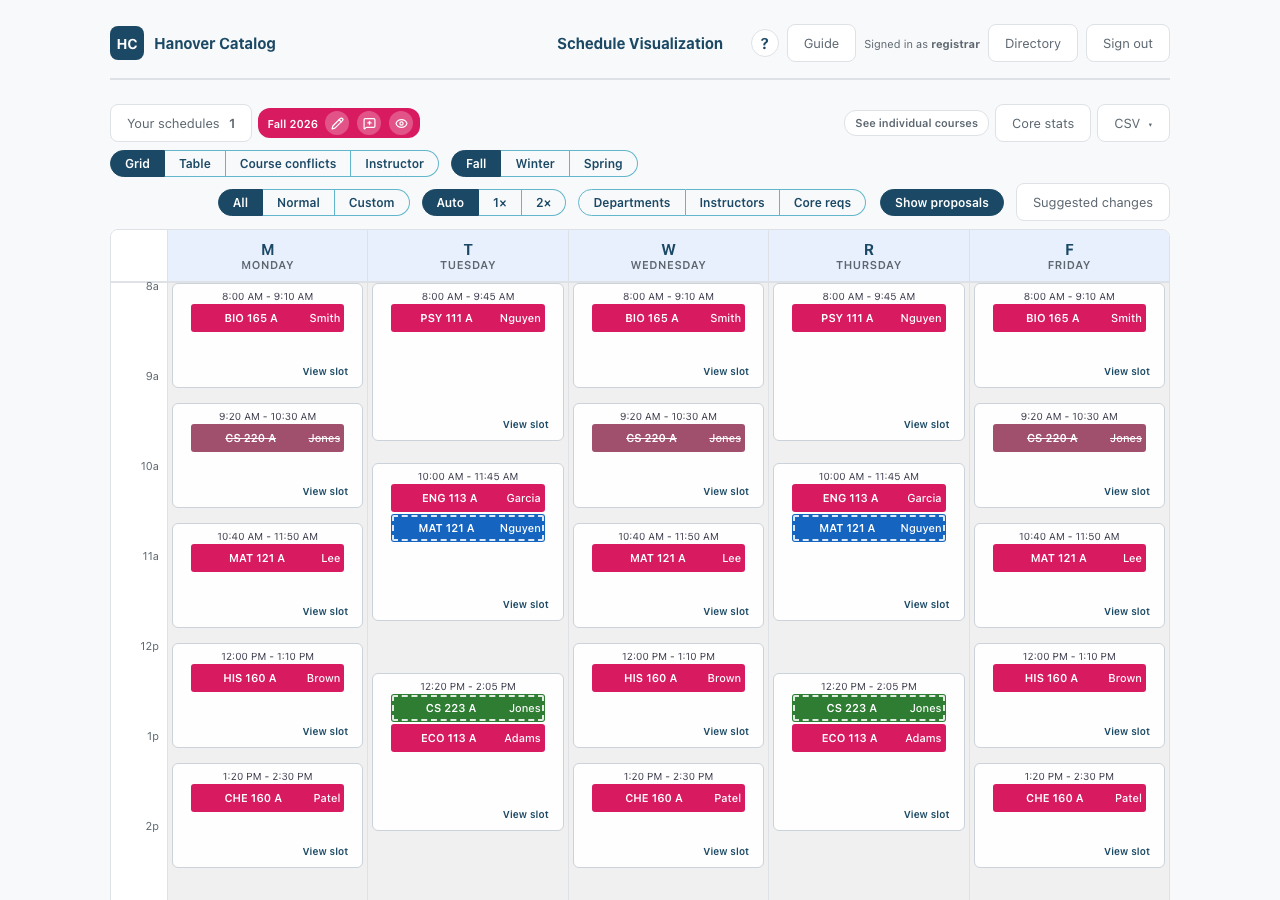
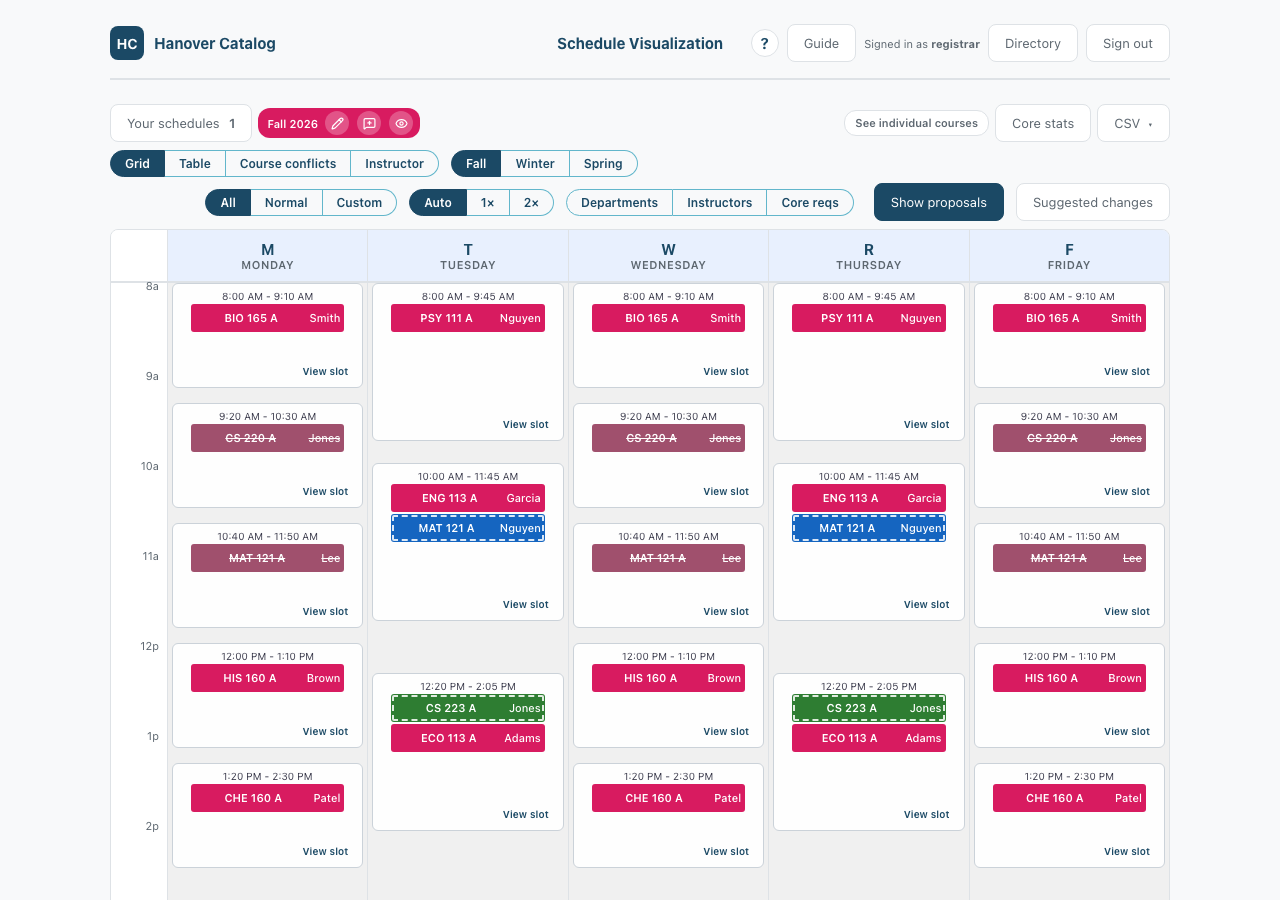
fix(schedule): strike a moved course's old slot; show proposals in every view
A proposed move only added a dashed block at the new time — the old block
stayed unmarked, so a moved course read as a duplicate in both its old and
new slots. Register each move's source in the overlay so the views strike it
through (moves and removals both 'take away' the current block), and add
shared overlayMarker/overlayTitle/overlayTag helpers so the proposed vs.
removed wording and keying live in one place across the seven views.

Also move the 'Show proposals' toggle out of the grid-only filter block so
it appears on the table, instructor, and course views too. Guide updated;
the proposal screenshots re-captured.

diff --git a/apps/schedule/src/scheduleStore.js b/apps/schedule/src/scheduleStore.js
@@ -2209,9 +2209,12 @@ export const scheduleOfferings = computed(() => {
 export const schedule = computed(() => buildIndex(scheduleOfferings.value))
 
 // The pending-suggestion overlay for the active term: the draw-on-top set from
-// `overlaySuggestions`, gated by the toolbar toggle. `removalsByKey` lets a view
-// mark a live course whose removal is proposed; `aware` distinguishes "showing
-// nothing because the toggle is off / nothing pending" from a live overlay.
+// `overlaySuggestions`, gated by the toolbar toggle. `removalsByKey` marks the
+// live blocks a proposal would take away — a removal's current row and the
+// source of a proposed move (which the view strikes so a moved course doesn't
+// read as a duplicate). `aware` distinguishes "showing nothing because the
+// toggle is off / nothing pending" from a live overlay.
+const overlayKey = (o) => `${o.prefix} ${o.number} ${o.section}`
 export const pendingOverlay = computed(() => {
   const empty = { proposed: [], removals: [], removalsByKey: new Map(), aware: false }
   if (!showPendingSuggestions.value) return empty
@@ -2221,7 +2224,20 @@ export const pendingOverlay = computed(() => {
   const { proposed, removals } = proposeOverlay(scheduleOfferings.value, list)
   const removalsByKey = new Map()
   for (const r of removals) {
-    removalsByKey.set(`${r.cur.prefix} ${r.cur.number} ${r.cur.section}`, r)
+    removalsByKey.set(overlayKey(r.cur), {
+      kind: 'remove',
+      proposer: r.proposer,
+      suggestionId: r.suggestionId,
+    })
+  }
+  for (const p of proposed) {
+    if (p.kind === 'move' && p.from) {
+      removalsByKey.set(overlayKey(p.from), {
+        kind: 'move',
+        proposer: p.proposer,
+        suggestionId: p.suggestionId,
+      })
+    }
   }
   return {
     proposed: proposed.map((p) => ({ ...p, scheduleId: scheduleOf.get(p.suggestionId) })),
@@ -2256,6 +2272,42 @@ export const shownOfferings = computed(() => {
 export const shownSchedule = computed(() =>
   shownOfferings.value === scheduleOfferings.value ? schedule.value : buildIndex(shownOfferings.value),
 )
+
+// The pending marker on an offering, if any: a proposed block (`$prop` tag) or a
+// live block a proposal would take away (removal, or a move's source). Shared by
+// every view so the "proposed/removed" distinction and the tooltip wording live
+// in one place.
+export function overlayProposal(o) {
+  return (o && o.$prop) || null
+}
+export function overlayRemoval(o) {
+  // A proposed block (`$prop`) is a destination, never a source to strike — even
+  // when it shares a section tuple with the move that created it.
+  if (!o || o.$prop) return null
+  return pendingOverlay.value.removalsByKey.get(overlayKey(o)) || null
+}
+export function overlayMarker(o) {
+  if (!o) return null
+  if (o.$prop) return { side: 'proposed', kind: o.$prop.kind, proposer: o.$prop.proposer }
+  const rem = pendingOverlay.value.removalsByKey.get(overlayKey(o))
+  return rem ? { side: 'removed', kind: rem.kind, proposer: rem.proposer } : null
+}
+// The full tooltip for a marked offering: "CS 220A: proposed move by advisor".
+export function overlayTitle(o, code) {
+  const m = overlayMarker(o)
+  if (!m) return ''
+  const label = `${code || `${o.prefix} ${o.number}`}${o.section}`
+  if (m.side === 'proposed')
+    return `${label}: proposed ${m.kind === 'move' ? 'move' : 'add'} by ${m.proposer}`
+  return `${label}: ${m.kind === 'move' ? 'move' : 'removal'} proposed by ${m.proposer}`
+}
+// A short phrase for a row/tag: "Move proposed by advisor".
+export function overlayTag(o) {
+  const m = overlayMarker(o)
+  if (!m) return ''
+  if (m.kind === 'move') return `Move proposed by ${m.proposer}`
+  return m.side === 'proposed' ? `Proposed by ${m.proposer}` : `Removal proposed by ${m.proposer}`
+}
 
 // The core-curriculum areas a course satisfies in this schedule collection: the
 // union of the selected schedules' active-term offerings' own `coreReqs` (the

diff --git a/apps/schedule/components/ScheduleCourse.vue b/apps/schedule/components/ScheduleCourse.vue
@@ -23,8 +23,7 @@
                 <div>
                   <strong>{{ s.sectionLabel }}</strong> · {{ s.o.days }} {{ formatTime(s.o.time) }} · Seats:
                   {{ s.o.seats ?? DEFAULT_SEATS }}
-                  <span v-if="proposed(s)" class="proposed-tag">Proposed by {{ s.o.$prop.proposer }}</span>
-                  <span v-else-if="removed(s)" class="proposed-tag">Removal proposed</span>
+                  <span v-if="proposed(s) || removed(s)" class="proposed-tag">{{ markerText(s) }}</span>
                 </div>
                 <div v-if="offeringTitle(s.o)" class="offering-title">{{ offeringTitle(s.o) }}</div>
               </div>
@@ -111,9 +110,11 @@
 <script>
 import { useRoute } from 'vue-router'
 import {
-  pendingOverlay,
   shownOfferings,
   shownSchedule,
+  overlayProposal,
+  overlayRemoval,
+  overlayTag,
   instructorName,
   scheduleAreasOf,
 } from '../src/scheduleStore.js'
@@ -141,9 +142,9 @@ export default {
       shownSchedule.value && code.value ? conflictsForCourse(code.value, shownSchedule.value) : [],
     )
     // Pending-suggestion markers for this course's sections.
-    const proposed = (s) => Boolean(s.o.$prop)
-    const removed = (s) =>
-      pendingOverlay.value.removalsByKey.get(`${s.o.prefix} ${s.o.number} ${s.o.section}`) || null
+    const proposed = (s) => Boolean(overlayProposal(s.o))
+    const removed = (s) => overlayRemoval(s.o)
+    const markerText = (s) => overlayTag(s.o)
     const catalog = computed(() => courseByCode(code.value))
     // The core-curriculum areas this course satisfies on the displayed
     // schedules — the imported rows' own designations, with the catalog as a
@@ -175,6 +176,7 @@ export default {
       conflicts,
       proposed,
       removed,
+      markerText,
       shownSchedule,
       shownOfferings,
       catalog,

diff --git a/apps/schedule/components/ScheduleTable.vue b/apps/schedule/components/ScheduleTable.vue
@@ -364,7 +364,9 @@ import {
   isReferenceItem,
   myDepartments,
   openCourseEdit,
-  pendingOverlay,
+  overlayProposal,
+  overlayRemoval,
+  overlayTag,
   removeCourseFromSchedule,
   scheduleById,
   shownOfferings,
@@ -478,19 +480,13 @@ export default {
       const s = scheduleById(sid)
       return s ? s.name : ''
     }
-    // Pending-suggestion markers: a proposed row (dashed) or a live row whose
-    // removal is proposed (struck through). Proposed rows carry a `$prop` tag
-    // and a synthetic sid, so they never read as editable or reference rows.
-    const proposed = (row) => Boolean(row.o.$prop)
-    const removed = (row) =>
-      pendingOverlay.value.removalsByKey.get(`${row.o.prefix} ${row.o.number} ${row.o.section}`) || null
-    const sourceText = (row) => {
-      const prop = row.o.$prop
-      if (prop) return `Proposed by ${prop.proposer}`
-      const rem = removed(row)
-      if (rem) return `Removal proposed by ${rem.proposer}`
-      return scheduleName(row.sid)
-    }
+    // Pending-suggestion markers: a proposed row (dashed) or a live row a
+    // proposal would take away (removal, or a move's source — struck through).
+    // Proposed rows carry a `$prop` tag and a synthetic sid, so they never read
+    // as editable or reference rows.
+    const proposed = (row) => Boolean(overlayProposal(row.o))
+    const removed = (row) => overlayRemoval(row.o)
+    const sourceText = (row) => overlayTag(row.o) || scheduleName(row.sid)
     const reference = (row) => isReferenceItem({ o: row.o, sid: row.sid })
     // Editable only inside a session on the row's own schedule and within the
     // user's departments (`canTouchOffering` covers cross-list ownership).

diff --git a/apps/schedule/components/NoMeetingStrip.vue b/apps/schedule/components/NoMeetingStrip.vue
@@ -46,7 +46,9 @@ import {
   activeTerm,
   editingScheduleId,
   canTouchOffering,
-  pendingOverlay,
+  overlayProposal,
+  overlayRemoval,
+  overlayTitle,
   openCourseEdit,
 } from '../src/scheduleStore.js'
 import CoursePill from './CoursePill.vue'
@@ -89,19 +91,11 @@ export default {
       if (props.filter.active) return out.filter((it) => props.filter.matches(it))
       return out
     })
-    // Pending-suggestion markers: a proposed pill (dashed) or a removal marker
-    // (struck through) on a live course whose removal is proposed.
-    const proposalFor = (it) => (it.o && it.o.$prop) || null
-    const removalFor = (it) => pendingOverlay.value.removalsByKey.get(`${it.code} ${it.o.section}`) || null
-    const itemTitle = (it) => {
-      const prop = proposalFor(it)
-      if (prop) {
-        return `${it.code}${it.o.section}: proposed ${prop.kind === 'move' ? 'move' : 'add'} by ${prop.proposer}`
-      }
-      const rem = removalFor(it)
-      if (rem) return `${it.code}${it.o.section}: removal proposed by ${rem.proposer}`
-      return ''
-    }
+    // Pending-suggestion markers: a proposed pill (dashed) or a removal/move
+    // marker (struck through) on a live course a proposal would take away.
+    const proposalFor = (it) => overlayProposal(it.o)
+    const removalFor = (it) => overlayRemoval(it.o)
+    const itemTitle = (it) => overlayTitle(it.o, it.code)
     const editMode = computed(() => Boolean(editingScheduleId.value))
     // Per-item editability: the session's own schedule, scoped to the user's
     // departments in a non-owner suggest session.

diff --git a/apps/schedule/components/ScheduleInstructor.vue b/apps/schedule/components/ScheduleInstructor.vue
@@ -56,7 +56,13 @@
 
 <script>
 import { useRoute } from 'vue-router'
-import { shownSchedule, pendingOverlay, instructorName } from '../src/scheduleStore.js'
+import {
+  shownSchedule,
+  overlayProposal,
+  overlayRemoval,
+  overlayTitle,
+  instructorName,
+} from '../src/scheduleStore.js'
 import {
   instructorConflicts,
   compareInstructors,
@@ -86,19 +92,9 @@ export default {
       return instructorConflicts(shownSchedule.value).filter((c) => c.instructor === name.value)
     })
     // Pending-suggestion markers on this instructor's timetable blocks.
-    const proposed = (it) => Boolean(it.o && it.o.$prop)
-    const removed = (it) =>
-      it.o
-        ? pendingOverlay.value.removalsByKey.get(`${it.o.prefix} ${it.o.number} ${it.o.section}`) || null
-        : null
-    const itemTitle = (it) => {
-      if (proposed(it)) {
-        const prop = it.o.$prop
-        return `${it.code}${it.o.section}: proposed ${prop.kind === 'move' ? 'move' : 'add'} by ${prop.proposer}`
-      }
-      if (removed(it)) return `${it.code}${it.o.section}: removal proposed by ${removed(it).proposer}`
-      return ''
-    }
+    const proposed = (it) => Boolean(overlayProposal(it.o))
+    const removed = (it) => overlayRemoval(it.o)
+    const itemTitle = (it) => overlayTitle(it.o, it.code)
     const itemStyle = (it) => ({
       top: (it.start - DAY_START_MIN) * PX_PER_MIN + 'px',
       height: (it.end - it.start) * PX_PER_MIN + 'px',

diff --git a/apps/schedule/components/ScheduleGrid.vue b/apps/schedule/components/ScheduleGrid.vue
@@ -108,6 +108,9 @@ import {
   canTouchOffering,
   pendingOverlay,
   shownSchedule,
+  overlayProposal,
+  overlayRemoval,
+  overlayTitle,
   moveOffering,
   openCourseEdit,
   instructorName,
@@ -254,17 +257,13 @@ export default {
           active: filter.value.active,
         }))
 
-    // Overlay metadata for a rendered item (proposed pill / removal marker).
-    const proposalFor = (it) => (it.o && it.o.$prop) || null
-    const removalFor = (it) => overlay.value.removalsByKey.get(`${it.code} ${it.o.section}`) || null
+    // Overlay metadata for a rendered item (proposed pill / removal marker),
+    // plus a team-taught roster fallback when there is no marker.
+    const proposalFor = (it) => overlayProposal(it.o)
+    const removalFor = (it) => overlayRemoval(it.o)
     const itemTitle = (it) => {
-      const prop = proposalFor(it)
-      if (prop) {
-        return `${it.code}${it.o.section}: proposed ${prop.kind === 'move' ? 'move' : 'add'} by ${prop.proposer}`
-      }
-      const rem = removalFor(it)
-      if (rem) return `${it.code}${it.o.section}: removal proposed by ${rem.proposer}`
-      // Team-taught courses list the full roster in the tooltip.
+      const overlay = overlayTitle(it.o, it.code)
+      if (overlay) return overlay
       if ((it.instructors || []).length > 1) return it.instructors.map(instructorName).join(', ')
       return ''
     }

diff --git a/apps/schedule/components/ScheduleSlot.vue b/apps/schedule/components/ScheduleSlot.vue
@@ -57,6 +57,9 @@ import {
   canTouchOffering,
   pendingOverlay,
   shownSchedule,
+  overlayProposal,
+  overlayRemoval,
+  overlayTitle,
   openCourseEdit,
 } from '../src/scheduleStore.js'
 import { goScheduleCourse, goScheduleDay, goScheduleSlot } from '../router.js'
@@ -116,17 +119,9 @@ export default {
       return list
     })
 
-    const proposalFor = (it) => (it.o && it.o.$prop) || null
-    const removalFor = (it) => overlay.value.removalsByKey.get(`${it.code} ${it.o.section}`) || null
-    const itemTitle = (it) => {
-      const prop = proposalFor(it)
-      if (prop) {
-        return `${it.code}${it.o.section}: proposed ${prop.kind === 'move' ? 'move' : 'add'} by ${prop.proposer}`
-      }
-      const rem = removalFor(it)
-      if (rem) return `${it.code}${it.o.section}: removal proposed by ${rem.proposer}`
-      return ''
-    }
+    const proposalFor = (it) => overlayProposal(it.o)
+    const removalFor = (it) => overlayRemoval(it.o)
+    const itemTitle = (it) => overlayTitle(it.o, it.code)
     const times = computed(() => termSlotOptions(activeTerm.value, day.value).map((s) => s.time))
     const timeIndex = computed(() => times.value.indexOf(time.value))
     const dayIndex = computed(() => WEEKDAYS.indexOf(day.value))

diff --git a/apps/schedule/components/DayTimeline.vue b/apps/schedule/components/DayTimeline.vue
@@ -120,6 +120,9 @@ import {
   canTouchOffering,
   pendingOverlay,
   shownSchedule,
+  overlayProposal,
+  overlayRemoval,
+  overlayTitle,
   moveOffering,
   openCourseEdit,
   verticalScale,
@@ -275,16 +278,11 @@ export default {
     // those same widths instead of stretching its last pill).
     const colsFor = (n) => (n <= 1 ? 1 : n === 2 ? 2 : 3)
 
-    const proposalFor = (it) => (it.o && it.o.$prop) || null
-    const removalFor = (it) => overlay.value.removalsByKey.get(`${it.code} ${it.o.section}`) || null
+    const proposalFor = (it) => overlayProposal(it.o)
+    const removalFor = (it) => overlayRemoval(it.o)
     const itemTitle = (it) => {
-      const prop = proposalFor(it)
-      if (prop) {
-        return `${it.code}${it.o.section}: proposed ${prop.kind === 'move' ? 'move' : 'add'} by ${prop.proposer}`
-      }
-      const rem = removalFor(it)
-      if (rem) return `${it.code}${it.o.section}: removal proposed by ${rem.proposer}`
-      // Team-taught courses list the full roster in the tooltip.
+      const overlay = overlayTitle(it.o, it.code)
+      if (overlay) return overlay
       if ((it.instructors || []).length > 1) return it.instructors.map(instructorName).join(', ')
       return ''
     }

diff --git a/apps/schedule/components/ScheduleApp.vue b/apps/schedule/components/ScheduleApp.vue
@@ -156,16 +156,19 @@
           >
             Clear
           </button>
-          <button
-            v-if="overlaySuggestions.length"
-            class="filter-btn schedule-proposals-toggle"
-            :class="{ active: showPendingSuggestions }"
-            :aria-pressed="showPendingSuggestions"
-            @click="setShowPendingSuggestions(!showPendingSuggestions)"
-          >
-            Show proposals
-          </button>
         </div>
+
+        <!-- On the toolbar proper, so it is available in every view (the filter
+             block above only renders for grid/day/slot). -->
+        <button
+          v-if="overlaySuggestions.length"
+          class="filter-btn schedule-proposals-toggle"
+          :class="{ active: showPendingSuggestions }"
+          :aria-pressed="showPendingSuggestions"
+          @click="setShowPendingSuggestions(!showPendingSuggestions)"
+        >
+          Show proposals
+        </button>
 
         <button
           v-if="suggestionsScheduleId"

diff --git a/docs-site/guide/schedule/proposals.md b/docs-site/guide/schedule/proposals.md
@@ -27,12 +27,13 @@ and **Reject**.
 
 ## Seeing proposals on the week
 
-Pending suggestions are also drawn over the calendar itself: a class someone
-proposes to add or move appears with a **dashed outline** (a move leaves the
-current block in place and dashes the proposed one beside it), and a class a
-proposal would remove is shown **struck through**. Proposed blocks are never
-draggable. The **Show proposals** button on the toolbar switches this overlay
-on and off; it only appears when the term has pending proposals.
+Pending suggestions are also drawn over every view — the calendar, the table,
+and the instructor and course pages. A class someone proposes to add appears
+with a **dashed outline**; a proposed move dashes the new block and **strikes
+through** the block it is leaving; and a class a proposal would remove is shown
+**struck through** in place. Proposed blocks are never draggable. The **Show
+proposals** button on the toolbar switches this overlay on and off; it appears
+in every view whenever the term has pending proposals.
 
 <Shot file="schedule-proposals-grid.png" />
 
